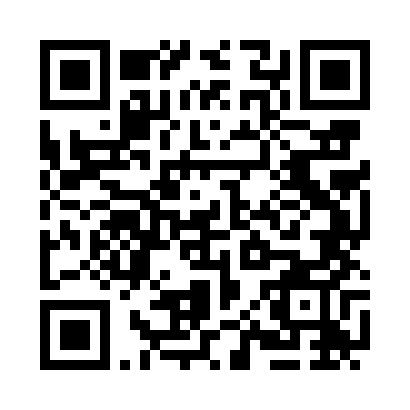
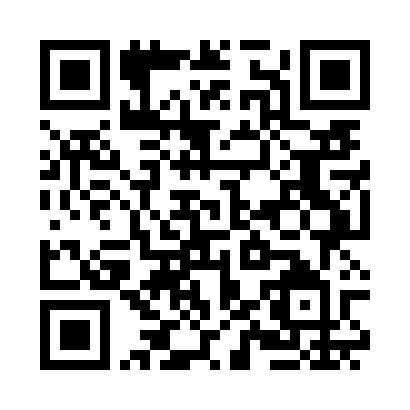
backend linking completed

diff --git a/frontend/src/Components/Dashboard/Dashboard.js b/frontend/src/Components/Dashboard/Dashboard.js
@@ -1,6 +1,7 @@
 import { saveAs } from 'file-saver'
 import React from 'react';
 import { Navigate } from "react-router-dom";
+import {useNavigate} from 'react-router-dom'
 import { useState } from 'react'
 import './Dashboard.css'
 import axios from 'axios';
@@ -20,7 +21,6 @@ async function getUserBio  () {
     { 'headers': { 'Authorization': "Token "+token } }
   )
   if(response.status == 200){
-    console.log(response.data['bio'])
     return response.data['bio']
   }
   else{
@@ -30,6 +30,7 @@ async function getUserBio  () {
 
 
 function Dashboard() {
+  const navigate = useNavigate()
   const [bio, setBio] = useState('')
   if(bio == ''){
     getUserBio().then((e) => setBio(e))
@@ -39,6 +40,7 @@ function Dashboard() {
     return <Navigate to="/login" />
   }
   const generateQR = async() =>{
+    
     const BASE_URL = "http://localhost:8000"
     const token = await localStorage.getItem("token")
     const response = await axios.post(
@@ -65,10 +67,17 @@ function Dashboard() {
     }
     
   }
-  const handleLogout = ()=>{
+  const handleLogout = async  ()=>{
+    
+    const BASE_URL = "http://localhost:8000"
+    const token = await localStorage.getItem("token") 
     localStorage.removeItem("token")
     localStorage.removeItem("user_id")
-    return <Navigate to="/login" />
+
+    const response = await axios.post(BASE_URL+"/logout/",
+    {"logout":"logout"},
+    { 'headers': { 'Authorization': "Token "+token }})
+    navigate("/login")
   }
 
   return (

diff --git a/frontend/src/Components/Dashboard_view/Dashboard_view.js b/frontend/src/Components/Dashboard_view/Dashboard_view.js
@@ -1,0 +1,51 @@
+import React from 'react';
+import {useNavigate} from 'react-router-dom'
+import { useState } from 'react'
+import './Dashboard_view.css'
+import axios from 'axios';
+import { useParams } from 'react-router';
+
+
+async function getUserBio  (id) {
+  const BASE_URL = "http://localhost:8000/"
+
+  const response = await axios.post(
+    BASE_URL+"qr/",{"qr_token":id},
+  )
+  if(response.status == 200){
+    return response.data['bio']
+  }
+  else{
+    return ''
+  }
+}
+
+function DashboardView() {
+  const { id } = useParams();
+  const navigate = useNavigate()
+
+  const [bio, setBio] = useState('')
+
+  getUserBio(id).then((e) => setBio(e))
+
+  const trymyself = () =>{
+    navigate('/login')
+  }
+
+  return (
+    <div className="Dashboard">
+      <div className="Dashboard-wrap">
+        <div className="heading"> <h1>Doc-QR</h1></div>
+        <div className="details">
+        <textarea value={bio} className='s-input' disabled="true"
+                placeholder='Bio'></textarea> <br/>
+         <form className="s-form">
+          <h6 onClick={trymyself}>Try for me</h6>
+        </form>
+        </div>
+      </div>
+    </div>
+  )
+}
+
+export default DashboardView;

diff --git a/frontend/src/Components/Dashboard_view/Dashboard_view.css b/frontend/src/Components/Dashboard_view/Dashboard_view.css
@@ -1,0 +1,56 @@
+@import url('https://fonts.googleapis.com/css2?family=Montserrat&display=swap');
+
+ 
+.Dashboard{
+    background-color: #fff;
+    padding: 40px 25px;
+    border-radius:7px;
+    box-shadow: 0 30px 60px 0 rgb(0 0 0 / 30%);
+    width: 70%;
+    display: flex;
+    justify-content: center;
+    align-items: center;
+    max-width: 450px;
+}
+.Dashboard-wrap{
+    width: fit-content;
+    height: fit-content;
+    
+}
+.heading{
+    width:100%;
+}
+h1{
+    width:fit-content;
+    margin: 0 auto;
+    border-bottom: 2px solid #56baed;
+}
+h4{
+    text-align: center;
+    letter-spacing:1.5px;
+}
+.g-btn{
+    margin: 0 auto;
+    padding: 10px 25px;
+    border-radius: 6px;
+    border: 0;
+    background-color:#56baed;
+    color: #fff;
+    font-family: 'Montserrat', sans-serif;
+}
+
+form h6{
+    font-family: 'Montserrat', sans-serif;
+    letter-spacing: 1px;
+}
+h6{
+    text-decoration: none;
+    cursor: pointer;
+    font-size: 15px ;
+}
+@media screen and (min-width:1000px){
+    .Dashboard{
+        height:55vh;
+        padding:45px 25px 25px;
+    }
+}

diff --git a/frontend/src/App.js b/frontend/src/App.js
@@ -3,6 +3,7 @@ import './App.css'
 import Login from './Components/Login/Login'
 import Signup from './Components/Signup/Signup'
 import Dashboard from './Components/Dashboard/Dashboard'
+import DashboardView from './Components/Dashboard_view/Dashboard_view'
 
 
 function App() {
@@ -13,6 +14,7 @@ function App() {
           <Route exact path='/login' element={<Login/>} />
           <Route path='/signup' element={<Signup/>} />
           <Route path='/' element={<Dashboard/>} />
+          <Route path='/qr/:id' element={<DashboardView/>} />
           </Routes>
       </div>
     </Router>

diff --git a/backend/users/views.py b/backend/users/views.py
@@ -10,8 +10,16 @@ from rest_framework.permissions import IsAuthenticated
 
 from .permission import OwnProfilePermission
 from .models import Profile
-from .serializers import ProfileSerializer
 from .util import get_qr_token, get_qr_code
+
+
+class DataView(APIView):
+    def post(self,request):
+        # try:
+            profile = Profile.objects.filter(qr_token = request.data['qr_token']).first()
+            return Response({"bio":profile.bio})
+        # except:
+        #     return Response({"status":"error"},status=status.HTTP_400_BAD_REQUEST) 
 
 class QRView(APIView):
     premission_classes = (IsAuthenticated, OwnProfilePermission)
@@ -47,6 +55,7 @@ class ProfileView(APIView):
             return Response({"status":"error"},status=status.HTTP_400_BAD_REQUEST) 
 
 class CreateProfile(APIView):
+    
     def post(self,request):
         try:
             user = User.objects.create(username=request.data['username'],password=request.data['password'])

diff --git a/backend/backend/urls.py b/backend/backend/urls.py
@@ -13,5 +13,6 @@ urlpatterns = [
     path('login/',user_views.CustomAuthToken.as_view(),name="login"),
     path('logout/',user_views.Logout.as_view(), name="logout"),
     path('profile/',user_views.ProfileView.as_view(),name="profile"),
-    path('profile/qr/',user_views.QRView.as_view(),name="qr-view")
+    path('profile/qr/',user_views.QRView.as_view(),name="qr-view"),
+    path('qr/',user_views.DataView.as_view(), name="view-only")
 ]+ static(settings.MEDIA_URL, document_root=settings.MEDIA_ROOT)

diff --git a/backend/users/util.py b/backend/users/util.py
@@ -5,7 +5,7 @@ import uuid
 import qrcode
 from io import BytesIO
 
-BASE_URL = "http://localhost:8000/"
+BASE_URL = "http://localhost:3000/"
 
 def get_qr_token():
     qr_token = str(uuid.uuid4()).replace('-','')[:20]
